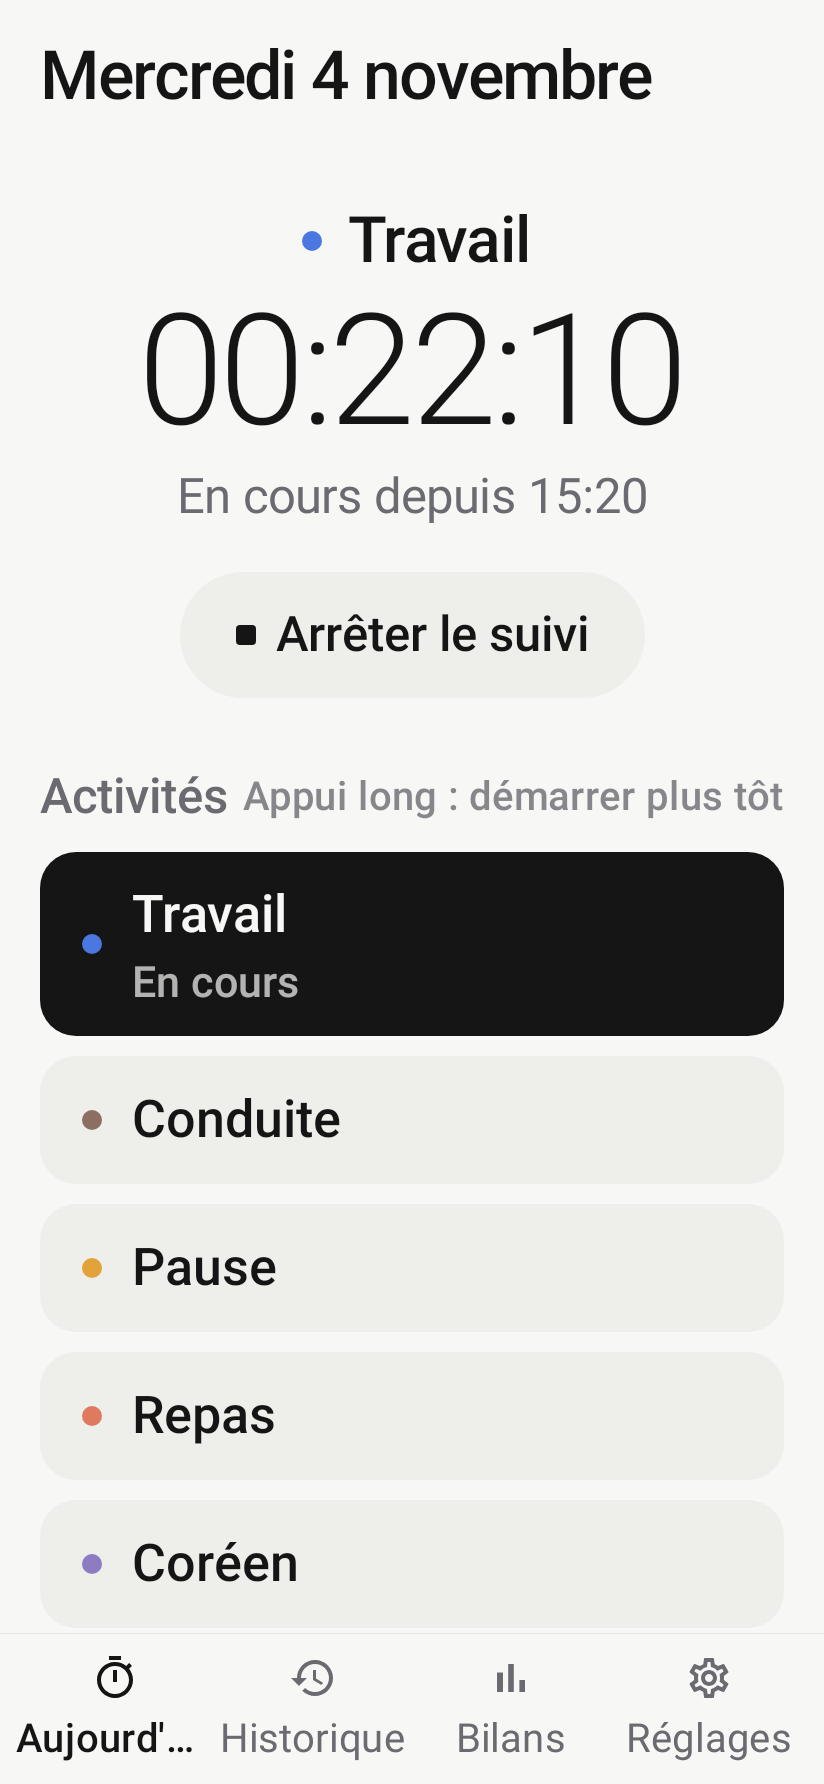
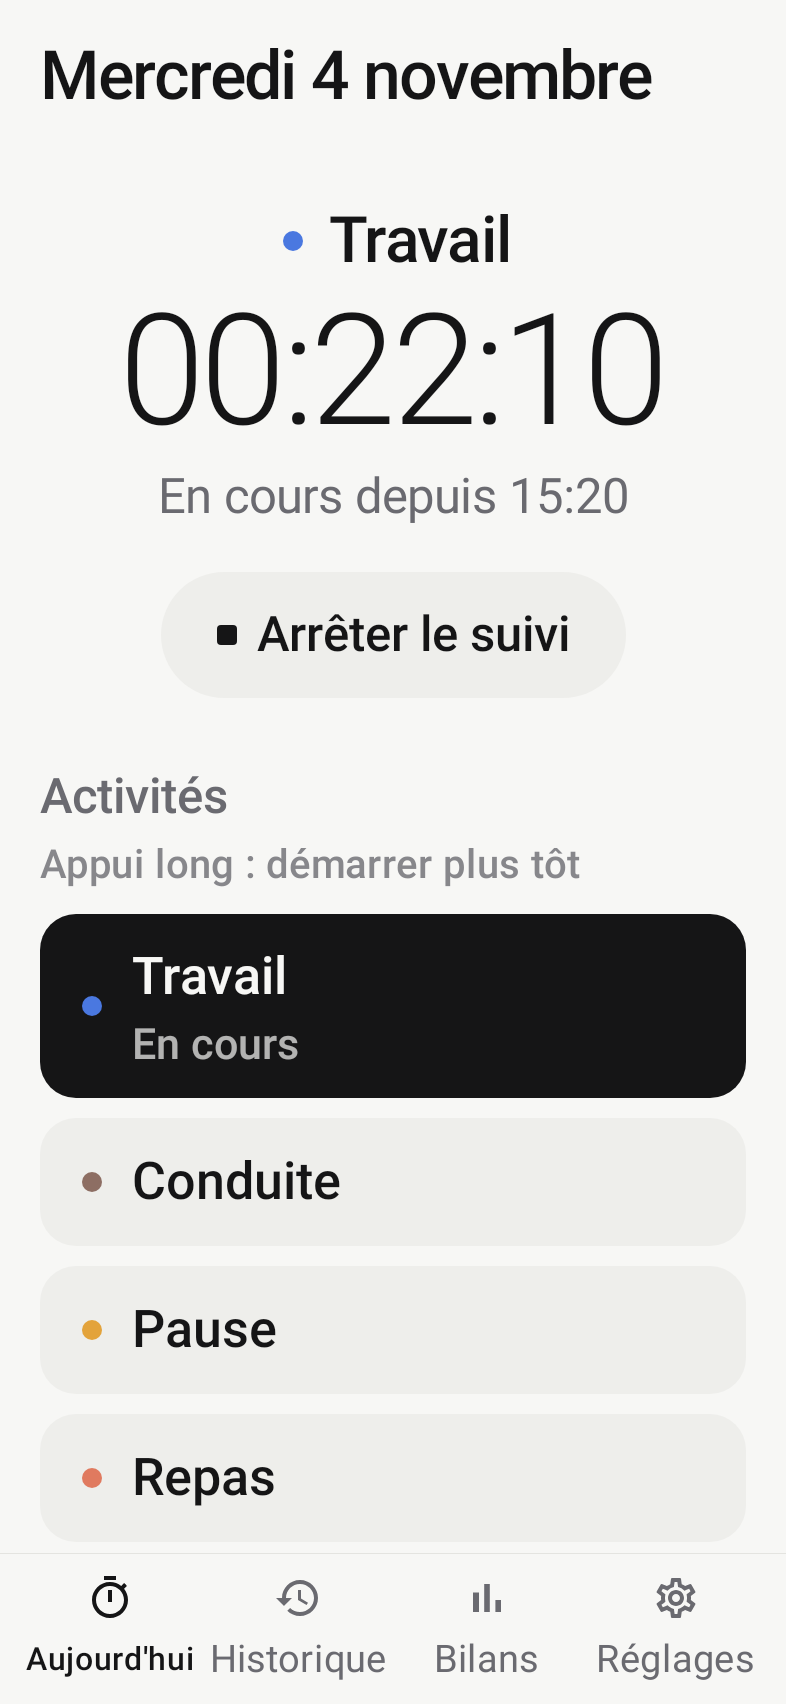
Nouveau téléphone cible : Redmi Note 17 Pro 5G (HyperOS 3, 6 Go de RAM)
- Rendu vérifié au cas le plus étroit de l'écran (393 dp) : en très grand
  texte, le titre « Activités » se coupait au milieu du mot et l'onglet
  « Aujourd'hui » était tronqué. Les en-têtes de section passent désormais
  la valeur ou l'indication à la ligne ; les libellés de la barre du bas
  rétrécissent légèrement. Rendu à taille normale inchangé.
- Pages mémoire de 16 Ko : bibliothèques natives vérifiées (ELF 0x4000,
  zipalign -P 16).
- Procédure de test renommée docs/TEST_TELEPHONE.md : transfert des données
  par sauvegarde JSON, test « Tout effacer » (6 Go de RAM), Hyper Island.
- README, ARCHITECTURE et VERIFICATION mis à jour.

Claude-Session: https://claude.ai/code/session_01WKNqrkRiB9XbYwxtUw24YW

diff --git a/app/src/main/java/fr/montemps/ui/Navigation.kt b/app/src/main/java/fr/montemps/ui/Navigation.kt
@@ -21,6 +21,7 @@ import androidx.compose.foundation.layout.safeDrawing
 import androidx.compose.foundation.layout.size
 import androidx.compose.foundation.selection.selectable
 import androidx.compose.foundation.selection.selectableGroup
+import androidx.compose.foundation.text.TextAutoSize
 import androidx.compose.material.icons.Icons
 import androidx.compose.material.icons.automirrored.rounded.ArrowBack
 import androidx.compose.material.icons.outlined.Settings
@@ -48,6 +49,7 @@ import androidx.compose.ui.semantics.Role
 import androidx.compose.ui.text.font.FontWeight
 import androidx.compose.ui.text.style.TextOverflow
 import androidx.compose.ui.unit.dp
+import androidx.compose.ui.unit.sp
 import androidx.navigation.NavGraph.Companion.findStartDestination
 import androidx.navigation.NavType
 import androidx.navigation.compose.NavHost
@@ -188,19 +190,22 @@ private fun BottomBar(current: String?, onSelect: (TopLevel) -> Unit) {
                     Modifier
                         .weight(1f)
                         .selectable(selected = selected, role = Role.Tab, onClick = { onSelect(tl) })
-                        .padding(top = 10.dp, bottom = 8.dp),
+                        .padding(start = 3.dp, end = 3.dp, top = 10.dp, bottom = 8.dp),
                     horizontalAlignment = Alignment.CenterHorizontally,
                     verticalArrangement = Arrangement.Center,
                 ) {
                     Icon(tl.icon(), contentDescription = null, tint = color, modifier = Modifier.size(24.dp))
                     Spacer(Modifier.height(4.dp))
+                    val labelStyle = MaterialTheme.typography.labelSmall
                     Text(
                         tl.label,
-                        style = MaterialTheme.typography.labelSmall,
+                        style = labelStyle,
                         fontWeight = if (selected) FontWeight.SemiBold else FontWeight.Normal,
                         color = color,
                         maxLines = 1,
                         overflow = TextOverflow.Ellipsis,
+                        // Grand texte sur écran étroit : le libellé rétrécit un peu plutôt que d'être coupé.
+                        autoSize = TextAutoSize.StepBased(minFontSize = 9.sp, maxFontSize = labelStyle.fontSize, stepSize = 0.5.sp),
                     )
                 }
             }

diff --git a/app/src/main/java/fr/montemps/ui/components/Components.kt b/app/src/main/java/fr/montemps/ui/components/Components.kt
@@ -8,6 +8,8 @@ import androidx.compose.foundation.background
 import androidx.compose.foundation.layout.Arrangement
 import androidx.compose.foundation.layout.Box
 import androidx.compose.foundation.layout.Column
+import androidx.compose.foundation.layout.ExperimentalLayoutApi
+import androidx.compose.foundation.layout.FlowRow
 import androidx.compose.foundation.layout.PaddingValues
 import androidx.compose.foundation.layout.Row
 import androidx.compose.foundation.layout.RowScope
@@ -269,15 +271,25 @@ fun PageHeader(title: String, modifier: Modifier = Modifier, actions: @Composabl
     }
 }
 
-/** Intitulé de section discret, avec valeur facultative alignée à droite. */
+/**
+ * Intitulé de section discret, avec valeur facultative alignée à droite. Le titre garde toujours
+ * sa largeur : si la valeur ou l'indication ne tient pas à côté (écran étroit, grand texte), elle
+ * passe à la ligne au lieu de couper le titre au milieu d'un mot.
+ */
+@OptIn(ExperimentalLayoutApi::class)
 @Composable
 fun SectionHeader(title: String, modifier: Modifier = Modifier, trailing: String? = null, hint: String? = null) {
-    Row(modifier.fillMaxWidth().padding(top = 28.dp, bottom = 10.dp), verticalAlignment = Alignment.CenterVertically) {
+    FlowRow(
+        modifier.fillMaxWidth().padding(top = 28.dp, bottom = 10.dp),
+        horizontalArrangement = Arrangement.SpaceBetween,
+        verticalArrangement = Arrangement.spacedBy(2.dp),
+        itemVerticalAlignment = Alignment.CenterVertically,
+    ) {
         Text(
             title,
             style = MaterialTheme.typography.titleSmall,
             color = MaterialTheme.colorScheme.onSurfaceVariant,
-            modifier = Modifier.weight(1f).semantics { heading() },
+            modifier = Modifier.padding(end = 12.dp).semantics { heading() },
         )
         if (hint != null) {
             Text(hint, style = MaterialTheme.typography.labelSmall, color = MaterialTheme.colorScheme.onSurfaceVariant.copy(alpha = 0.8f))

diff --git a/app/src/test/java/fr/montemps/ui/ScreenshotTest.kt b/app/src/test/java/fr/montemps/ui/ScreenshotTest.kt
@@ -50,6 +50,8 @@ import java.time.ZoneId
 /**
  * Vérification visuelle : rend les vrais écrans (données réelles en base, horloge figée) et
  * enregistre des PNG dans docs/screenshots. Gabarit proche d'un écran de 6,83" (≈ 412 × 892 dp).
+ * Le Redmi Note 17 Pro 5G (1280 × 2772 px) fait entre ≈ 393 et 465 dp de large selon la densité
+ * choisie par HyperOS : le cas le plus étroit sert au test « grand texte ».
  */
 @RunWith(AndroidJUnit4::class)
 @Config(qualifiers = "w412dp-h892dp-xhdpi")
@@ -319,6 +321,7 @@ class ScreenshotTest {
     }
 
     @Test
+    @Config(qualifiers = "w393dp-h852dp-xhdpi")
     fun todayLargeFont() {
         RuntimeEnvironment.setFontScale(1.8f)
         seed()

diff --git a/docs/VERIFICATION.md b/docs/VERIFICATION.md
@@ -1,5 +1,7 @@
 # Vérifications effectuées (version 0.1.0 : interface épurée, widgets, tuile, 10 améliorations d'usage)
 
+Téléphone cible : Redmi Note 17 Pro 5G (HyperOS 3, Android 16, 6 Go de RAM) — voir
+« Changement de téléphone » plus bas.
 Environnement : conteneur Linux sans KVM (aucun émulateur possible), JDK 21, Android SDK 36.
 **Aucun test sur appareil physique ni sur émulateur.** Les tests Android ont tourné sous Robolectric
 4.16 (framework Android 16 simulé sur la JVM).
@@ -76,7 +78,8 @@ PendingIntent (en vérifiant cible, type et immutabilité) et appellent `onRecei
 ## Vérification visuelle
 
 `ScreenshotTest` rend les vrais écrans (navigation par clics, données en base, horloge figée au
-mercredi 4 novembre 2026 15:42) sur un gabarit de 412 × 892 dp, en clair, en sombre et en texte ×1,8,
+mercredi 4 novembre 2026 15:42) sur un gabarit de 412 × 892 dp, en clair, en sombre et en texte ×1,8
+(celui-ci sur 393 × 852 dp, le cas le plus étroit du Redmi Note 17 Pro 5G),
 ainsi que les widgets (RemoteViews réellement appliquées par le gestionnaire de widgets simulé, posées
 sur un fond neutre — le reste de l'écran d'accueil n'est pas simulé). Les PNG sont dans
 `docs/screenshots/` et ont été relus :
@@ -88,7 +91,7 @@ sur un fond neutre — le reste de l'écran d'accueil n'est pas simulé). Les PN
 | `04-modifier-session`, `09-chevauchement-refuse` | Correction, refus d'un chevauchement |
 | `05-bilan-jour`, `06-bilan-semaine`, `06b-bilan-semaine-page-entiere`, `17-bilan-semaine-sombre` | Bilans |
 | `07-reglages`, `08-activites` | Réglages, gestion des activités |
-| `10-aujourdhui-grand-texte` | Taille de texte ×1,8 (une colonne, chronomètre ajusté) |
+| `10-aujourdhui-grand-texte` | Taille de texte ×1,8 sur 393 dp (une colonne, chronomètre ajusté, intitulés entiers) |
 | `11-premier-lancement` | État vide « Aucune activité en cours » |
 | `12-session-oubliee`, `13-session-oubliee-correction` | Session oubliée |
 | `14-notification`, `15-notification-rappel`, `26-notification-inactivite` | Notifications de suivi, de session longue et « rien n'est suivi » (vues construites par Android) |
@@ -106,6 +109,10 @@ reconnaissable sans la couleur (négatif + « En cours »), le chronomètre rest
 grand texte, contrastes suffisants en clair comme en sombre, les états vides sont explicites.
 Corrections faites après relecture : rangée des favorites coupée dans le widget (ligne d'infos
 regroupée, favorites affichées seulement à partir de 170 dp), texte du rappel raccourci à une ligne.
+À 393 dp en texte ×1,8 : le titre « Activités » se coupait au milieu du mot (« Activité / s ») et
+l'onglet « Aujourd'hui » était tronqué → l'indication passe sous le titre (tous les en-têtes de
+section), les libellés de la barre du bas rétrécissent légèrement au lieu d'être coupés. À taille
+normale, les captures sont identiques au pixel près avant et après la correction.
 Bug trouvé par les tests et corrigé : la comparaison de semaines comptait des sessions de la
 semaine précédente postérieures au « même moment ».
 Non capturé : le résumé du soir (style « texte long » mal rendu par le simulateur) ; son contenu est
@@ -115,12 +122,28 @@ vérifié par les tests.
 (22:10), l'heure de début étant alignée sur l'horloge simulée de Robolectric. Le rendu HyperOS réel
 (couleurs, actions visibles, écran verrouillé) n'a pas pu être vérifié.
 
+## Changement de téléphone : Redmi Note 17 Pro 5G
+
+Fiche technique relevée (page Xiaomi Inde et fiches de presse, novembre 2026) : HyperOS 3 sur
+Android 16, écran 6,83" 1280 × 2772 px (≈ 447 ppi), Snapdragon 6s Gen 4 ; modèle de l'utilisateur
+6 Go de RAM / 256 Go.
+
+| Point | Constat | Conséquence |
+|-------|---------|-------------|
+| Système | Android 16 / HyperOS 3, comme la cible précédente | Aucun changement de code : targetSdk 36, permissions, notifications, alarmes, widgets et tuile identiques |
+| Écran | 1280 px de large → entre ≈ 393 et 465 dp selon la densité choisie par HyperOS | Rendu vérifié à 393 dp (taille normale et ×1,8) : deux défauts d'affichage en très grand texte corrigés (voir plus haut) |
+| Mémoire | 6 Go : HyperOS ferme plus vite les applications en arrière-plan | Rien à changer : le suivi ne dépend pas d'un processus actif (horodatages en base, chronomètre natif, alarmes reprogrammées au démarrage). Étape « Tout effacer » ajoutée à la procédure (section 7) |
+| Pages mémoire de 16 Ko | 2 bibliothèques natives AndroidX dans l'APK (`graphics-path`, compteur DataStore) | Vérifié : segments ELF alignés sur 0x4000 et `zipalign -c -P 16` réussi → compatible si le téléphone utilise des pages de 16 Ko |
+| Haut de l'écran | HyperOS 3.1 annonce la prise en charge de l'API Live Updates d'Android 16 (« Hyper Island »), sans code propre à Xiaomi — source : presse spécialisée, pas de documentation Xiaomi officielle trouvée | Aucune adaptation : l'app utilise déjà l'API standard. Rendu à vérifier sur l'appareil (section 20) |
+| Données | Sauvegarde Android et transfert d'appareil exclus (`allowBackup=false`, `data_extraction_rules.xml`) | Changer de téléphone = « Créer une sauvegarde » puis « Restaurer une sauvegarde » (README) |
+| Processeur, stockage | Sans incidence pour une app de cette taille | — |
+
 ## Non vérifié / limites connues
 
 - Comportement réel d'HyperOS : affichage sur l'écran verrouillé, nombre d'actions visibles,
   retrait éventuel de la notification lors du balayage dans les récentes, délai de
   `BOOT_COMPLETED`, gestion de batterie agressive, réglage « Démarrage automatique » (peut bloquer le
-  redémarrage, le rafraîchissement de minuit et le rappel). → `docs/TEST_POCO.md`.
+  redémarrage, le rafraîchissement de minuit et le rappel). → `docs/TEST_TELEPHONE.md`.
 - Widgets et tuile non vérifiés sur le lanceur et le centre de contrôle d'HyperOS : prise en charge de
   l'ajout direct (`requestPinAppWidget`, `requestAddTileService`), tailles réelles des cellules,
   affichage du sous-titre de la tuile, fonctionnement des boutons de widget après un arrêt forcé.
@@ -157,7 +180,7 @@ vérifié par les tests.
 
 ## Prochaines améliorations (hors périmètre de cette version)
 
-1. Tester sur le POCO et ajuster selon les résultats de `docs/TEST_POCO.md` (sections 15 à 20 pour
+1. Tester sur le Redmi et ajuster selon les résultats de `docs/TEST_TELEPHONE.md` (sections 15 à 20 pour
    les nouveautés).
 2. Annulation après suppression dans l'historique et édition du début de la session active.
 3. Interface inter-apps protégée par permission de signature (voir `ARCHITECTURE.md`) et table `events` ;

diff --git a/docs/TEST_TELEPHONE.md b/docs/TEST_TELEPHONE.md
@@ -1,10 +1,22 @@
-# Procédure de test sur le POCO X8 Pro Max (HyperOS)
+# Procédure de test sur le Redmi Note 17 Pro 5G (HyperOS 3, Android 16, 6 Go de RAM)
 
 Durée : ≈ 45 min, plus une nuit pour le test long. Noter pour chaque étape : OK / KO + remarque.
-Avant de commencer : installer l'APK, ouvrir l'app, aller dans Réglages et faire une sauvegarde JSON
-si des données existent déjà. Vérifier aussi, dans Paramètres → Applications → Mon Temps, que le
-**démarrage automatique** est autorisé (HyperOS peut sinon bloquer le retour de la notification après
-un redémarrage, le rafraîchissement de minuit et le rappel).
+Noter aussi la version exacte d'HyperOS (Paramètres → À propos du téléphone) : l'affichage en haut
+de l'écran (section 20) dépend de la version.
+
+Avant de commencer :
+- **Données d'un ancien téléphone** : le transfert Android/Xiaomi ne copie pas les données de
+  l'app (sauvegarde Android désactivée volontairement). Sur l'ancien : Réglages → « Créer une
+  sauvegarde » ; copier le fichier JSON sur le nouveau ; installer l'APK puis Réglages → « Restaurer
+  une sauvegarde ». À refaire sur le nouveau téléphone : autorisation de notification, dossier de
+  sauvegarde automatique, widgets et tuile.
+- Sinon, si des données existent déjà sur ce téléphone, faire une sauvegarde JSON.
+- Paramètres → Applications → Mon Temps : **démarrage automatique** autorisé (HyperOS peut sinon
+  bloquer le retour de la notification après un redémarrage, le rafraîchissement de minuit et les
+  rappels) ; économiseur de batterie : noter le réglage (voir section 6).
+- Avec 6 Go de RAM, HyperOS ferme plus vite les applications en arrière-plan. L'app ne dépend pas
+  d'un processus actif (horodatages en base, chronomètre natif), mais les sections 2, 6 et 7 sont
+  à suivre de près.
 
 ## 1. Parcours de base
 1. Ouvrir l'app → « Aucune activité en cours » s'affiche.
@@ -57,6 +69,11 @@ un redémarrage, le rafraîchissement de minuit et le rappel).
 2. La notification doit rester et le chronomètre continuer (noter si HyperOS la retire).
 3. Utiliser une action de la notification après le balayage : elle doit fonctionner.
 4. Rouvrir l'app : la session continue, durée correcte.
+5. Recommencer avec « Tout effacer » (croix en bas des récentes), puis ouvrir plusieurs applications
+   lourdes (appareil photo, jeux) pour saturer la mémoire. Si HyperOS retire la notification ou
+   les actions cessent de répondre : verrouiller Mon Temps dans les récentes (appui long sur la
+   carte → cadenas), régler l'économiseur de batterie sur « Pas de restriction », et refaire le test.
+   Dans tous les cas, la session ne doit pas être perdue (réouverture → durée correcte).
 
 ## 8. Arrêt forcé puis réouverture
 1. Démarrer Musique. Paramètres → Applications → Mon Temps → **Forcer l'arrêt**.
@@ -137,11 +154,16 @@ un redémarrage, le rafraîchissement de minuit et le rappel).
 2. Activer le résumé du soir à une heure proche : notification silencieuse ; un appui ouvre les bilans.
 
 ## 20. Haut de l'écran (Android 16) et sauvegarde automatique
-1. Pendant un suivi, vérifier si HyperOS affiche le chronomètre en haut de l'écran (puce / île).
-   Sinon : Réglages → « Live Updates désactivés dans Android » le cas échéant. Noter le rendu exact.
+1. Pendant un suivi, vérifier si HyperOS affiche le chronomètre en haut de l'écran (puce de la
+   barre d'état ou « Hyper Island » : HyperOS 3.1 annonce la prise en charge de l'API Live Updates
+   d'Android 16, sans code propre à Xiaomi). Sinon : Réglages → « Live Updates désactivés dans
+   Android » le cas échéant. Noter la version d'HyperOS et le rendu exact (texte, chronomètre, appui).
 2. Réglages → Sauvegarde automatique → choisir un dossier : un fichier `mon-temps-auto-…json` y
    apparaît aussitôt. Vérifier qu'il se restaure (Réglages → Restaurer une sauvegarde).
 
 ## 21. Affichage
 - Thème sombre du système → l'app suit.
-- Taille de police maximale (Paramètres → Affichage) → textes lisibles, raccourcis sur une colonne.
+- Taille de police maximale (Paramètres → Affichage) → textes lisibles, raccourcis sur une colonne,
+  intitulés entiers (« Activités », onglets de la barre du bas).
+- Facultatif : noter la « Plus petite largeur » (Options pour les développeurs). L'interface a été
+  vérifiée à 393 et 412 dp ; une valeur plus faible (taille d'affichage agrandie) est à signaler.

diff --git a/README.md b/README.md
@@ -4,7 +4,8 @@ Application Android personnelle de suivi du temps : quelle activité est en cour
 combien de temps, et comment la journée et la semaine ont été réparties. Entièrement hors
 connexion, sans compte, sans publicité ni statistiques d'usage.
 
-Cible : POCO X8 Pro Max (Android 16 / HyperOS 3). Compatible Android 8.0 (API 26) et plus.
+Cible : Redmi Note 17 Pro 5G (6 Go de RAM, Android 16 / HyperOS 3). Compatible Android 8.0
+(API 26) et plus.
 
 ## Fonctions (version 0.1.0)
 
@@ -62,6 +63,15 @@ La variante debug a l'identifiant `fr.montemps.debug` : elle peut coexister avec
 release (`fr.montemps`). Une APK debug compilée sur une autre machine est signée avec une autre clé :
 il faut alors désinstaller l'ancienne (exporter d'abord une sauvegarde JSON).
 
+### Changer de téléphone
+
+Les données ne suivent pas le transfert Android ou Xiaomi (sauvegarde Android désactivée
+volontairement). Sur l'ancien téléphone : Réglages → « Créer une sauvegarde » ; copier le fichier
+JSON sur le nouveau ; y installer l'APK puis Réglages → « Restaurer une sauvegarde ». Activités,
+historique, objectifs et réglages reviennent. À refaire sur le nouveau téléphone : autorisation de
+notification, « Démarrage automatique » (HyperOS), dossier de la sauvegarde automatique, widgets
+et tuile.
+
 ## Compilation
 
 Prérequis : JDK 17 ou plus récent, Android SDK (plateforme 36). Le wrapper Gradle télécharge Gradle 8.14.3.
@@ -109,10 +119,10 @@ app/src/main/java/fr/montemps/
 ├── AppContainer.kt         Assemblage des dépendances (sans framework d'injection)
 └── MonTempsApp.kt / MainActivity.kt
 docs/ARCHITECTURE.md        Décisions, comportement temporel, inter-apps
-docs/TEST_POCO.md           Procédure de test manuelle sur le téléphone
+docs/TEST_TELEPHONE.md      Procédure de test manuelle sur le téléphone
 ```
 
 ## Vérifications et limites
 
 Voir [`docs/VERIFICATION.md`](docs/VERIFICATION.md) : ce qui a été réellement vérifié, comment, et
-ce qui reste à valider sur l'appareil physique (aucun test n'a été fait sur un vrai POCO).
+ce qui reste à valider sur l'appareil physique (aucun test n'a été fait sur un vrai téléphone).

diff --git a/docs/ARCHITECTURE.md b/docs/ARCHITECTURE.md
@@ -223,6 +223,9 @@ et juste après minuit.
   ne modifie rien.
 - Sélecteur de documents Android (SAF) : aucune permission de stockage. Sauvegarde cloud
   automatique Android désactivée (`allowBackup=false`) : l'utilisateur garde la maîtrise.
+  Le transfert d'appareil à appareil (Android ou outil Xiaomi) est lui aussi exclu
+  (`data_extraction_rules.xml`) : pour changer de téléphone, « Créer une sauvegarde » sur l'ancien
+  puis « Restaurer une sauvegarde » sur le nouveau.
 - **Sauvegarde automatique** (facultative) : un dossier choisi une fois (`OpenDocumentTree`,
   permission persistante limitée à ce dossier), une copie JSON complète tous les 7 jours
   (`mon-temps-auto-AAAA-MM-JJ.json`), les 8 plus récentes conservées. En cas d'échec (dossier
